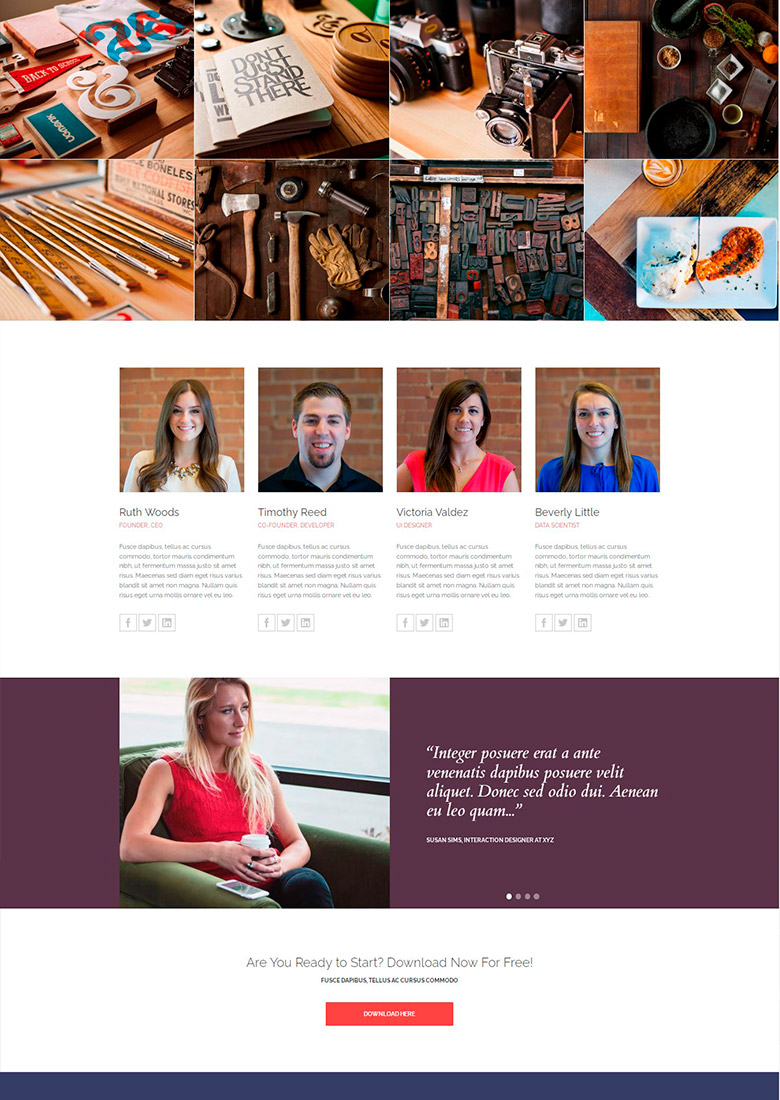
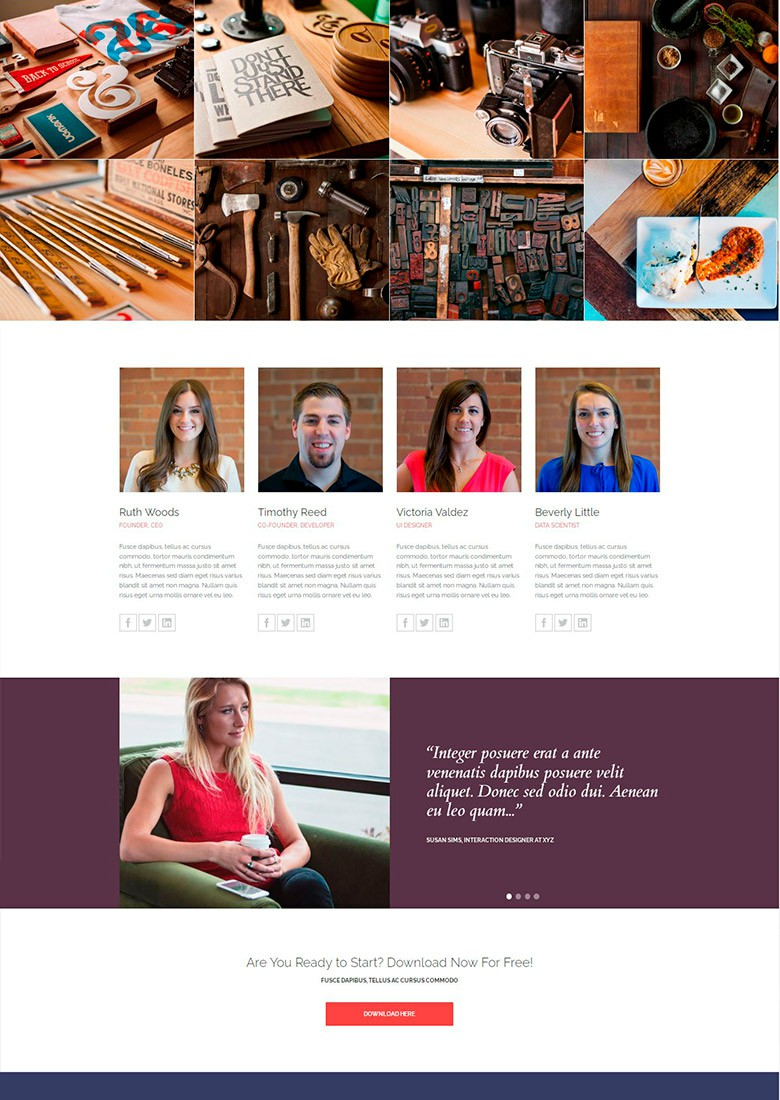
webp -> jpg

diff --git a/src/img/works/mogo/index.js b/src/img/works/mogo/index.js
@@ -1,14 +1,14 @@
-import preview from './preview.webp'
-import slide_1 from './slide-1.webp'
-import slide_2 from './slide-2.webp'
-import slide_3 from './slide-3.webp'
-// import slide_4 from './slide-4.png'
+import preview from './preview.jpg'
+import slide_1 from './slide-1.jpg'
+import slide_2 from './slide-2.jpg'
+import slide_3 from './slide-3.jpg'
+import slide_4 from './slide-4.jpg'
 
 export const mogo_preview = preview
 
 export const mogo_slides = [
   slide_1,
   slide_2,
-  slide_3
-  // slide_4
+  slide_3,
+  slide_4
 ]

diff --git a/src/img/works/activebox/index.js b/src/img/works/activebox/index.js
@@ -1,15 +1,10 @@
-import preview from './preview.png'
+import preview from './preview.jpg'
 import slide_1 from './slide_1.jpg'
 import slide_2 from './slide_2.jpg'
 import slide_3 from './slide_3.jpg'
 // import slide_4 from './slide_4.jpg'
-import preview from './preview.webp'
-import slide_1 from './slide_1.webp'
-import slide_2 from './slide_2.webp'
-import slide_3 from './slide_3.webp'
 
 export const activebox_preview = preview
-
 export const activebox_slides = [
   slide_1,
   slide_2,

diff --git a/src/img/works/user-cards/index.js b/src/img/works/user-cards/index.js
@@ -1,8 +1,8 @@
-import preview from './preview.webp'
-import slide_1 from './slide_1.webp'
-import slide_2 from './slide_2.webp'
-import slide_3 from './slide_3.webp'
-import slide_4 from './slide_4.webp'
+import preview from './preview.jpg'
+import slide_1 from './slide_1.jpg'
+import slide_2 from './slide_2.jpg'
+import slide_3 from './slide_3.jpg'
+import slide_4 from './slide_4.jpg'
 
 export const userCards_preview = preview
 export const userCards_slide = [

diff --git a/src/img/works/zadanie-rekrutacyjne/index.js b/src/img/works/zadanie-rekrutacyjne/index.js
@@ -1,7 +1,7 @@
-import preview from './preview.webp'
-import slide_1 from './slide-1.webp'
-import slide_2 from './slide-2.webp'
-import slide_3 from './slide-3.webp'
+import preview from './preview.jpg'
+import slide_1 from './slide-1.jpg'
+import slide_2 from './slide-2.jpg'
+import slide_3 from './slide-3.jpg'
 // import slide_4 from './slide-4.png'
 
 export const zadanieRekrutacyjne_preview = preview

diff --git a/src/img/works/designer-portfolio/index.js b/src/img/works/designer-portfolio/index.js
@@ -1,7 +1,7 @@
-import preview from './preview.webp'
-import slide_1 from './slide-1.webp'
-import slide_2 from './slide-2.webp'
-import slide_3 from './slide-3.webp'
+import preview from './preview.jpg'
+import slide_1 from './slide-1.jpg'
+import slide_2 from './slide-2.jpg'
+import slide_3 from './slide-3.jpg'
 // import slide_4 from './slide-4.webp'
 
 export const designerPortfolio_preview = preview

diff --git a/src/img/works/contectsMenu/index.js b/src/img/works/contectsMenu/index.js
@@ -1,7 +1,7 @@
 // import preview from './preview.png'
 // import slide_0 from './slide_0.png'
-import preview from './preview.webp'
-import slide_0 from './slide_0.webp'
+import preview from './preview.jpg'
+import slide_0 from './slide_0.jpg'
 import slide_1 from './slide_1.png'
 import slide_2 from './slide_2.png'
 import slide_3 from './slide_3.png'
